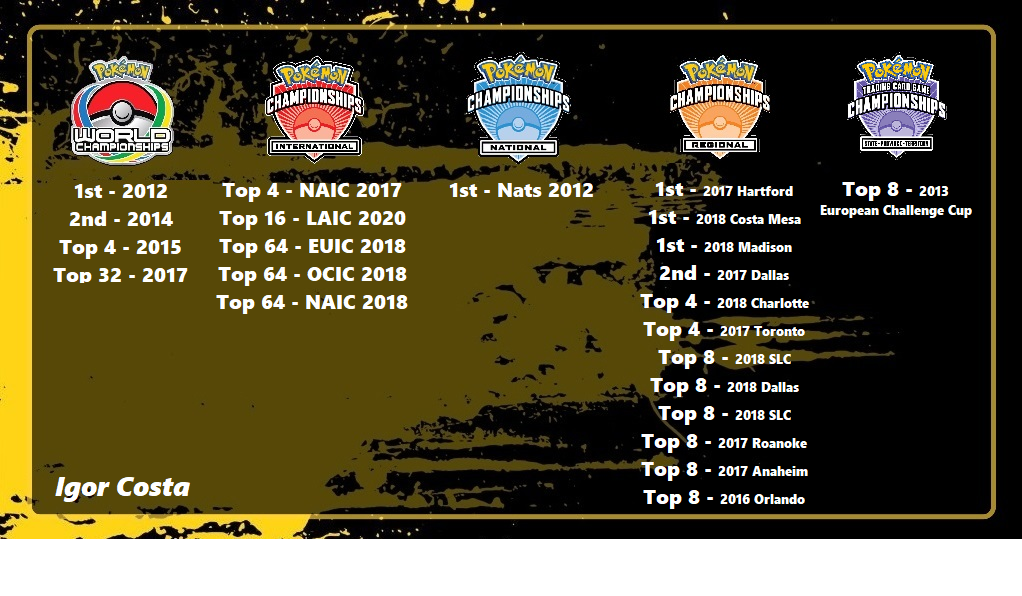
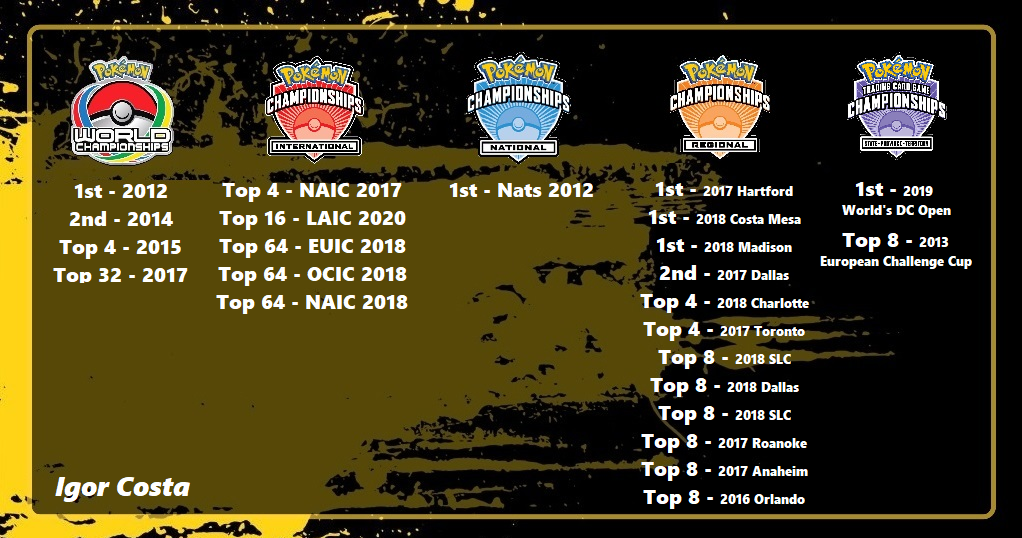
article

diff --git a/articles/other/greatest-players-in-history.html b/articles/other/greatest-players-in-history.html
@@ -191,6 +191,9 @@
                 </div>
                 <p>Let's take a look at some of Igor's most well-known accomplishments:</p>
                 <img src='../../assets/article-images/yellow-black-igor.png'>
+                <p>Igor is the 2012 World Champion, winning the event shortly after winning his home country's National Championships. By winning worlds, he of course earned an automatic invitation to the 2013 World Championships, but dropped from the event before the final round of swiss. But, Igor came back with vengeance, making finals again in the 2014 World Championships! Though he lost in the finals to <i>Andrew Estrada</i> in the Virizion Genesect mirror match, he made history by making Top 4 at the 2015 Worlds Championships the following year!</p>
+                <p>Very few players in the history of the game have made Top 8 at Worlds multiple times, but in the short amount of time in which Igor pulled it off is historic. After moving to the US around 2016, Igor began to dominate the North American circuit by winning three Regionals, making finals in a fourth, and making Top 8 in eight other Regionals. Not to mention his consistent placing at International events, and nearly winning one. For some time, he was arguably the best player in the world (that was actively playing at the time.)</p>
+                <p>I have a friend who likes to argue with me that this spot should go to Shintaro Ito. As Shintaro is the only other player in the history of the game to have made finals at Worlds more than once. (Not counting <i>Jason Klaczynski</i> of course.) Shintaro won the 2016 World Championships with the famous Mega Audino deck, and made finals again in the 2019 World Championships. While amazing accomplishments that 100% put Shintaro Ito in a place to be considered as one of the greatest players of all time, it's the fact that Igor also has an additional Top 4 placement over Shintaro that I believe gives Igor the edge here. Now, like I mentioned earlier in this article, it's very difficult to know what other accomplishments Japanese players may have. I've tried to research farther than what Shinataro's <a href='https://limitlesstcg.com/players/1458/results' target="_blank">Limitless page</a> lists, but with no luck. Though I'm unable to confirm what other accomplishments Shintaro may have on his record, I'm still incredibly confident in believing that Igor Costa is the fourth greatest player of all time.</p>
 
                 <!-- 3 -->
                 <div class='align-row'>
